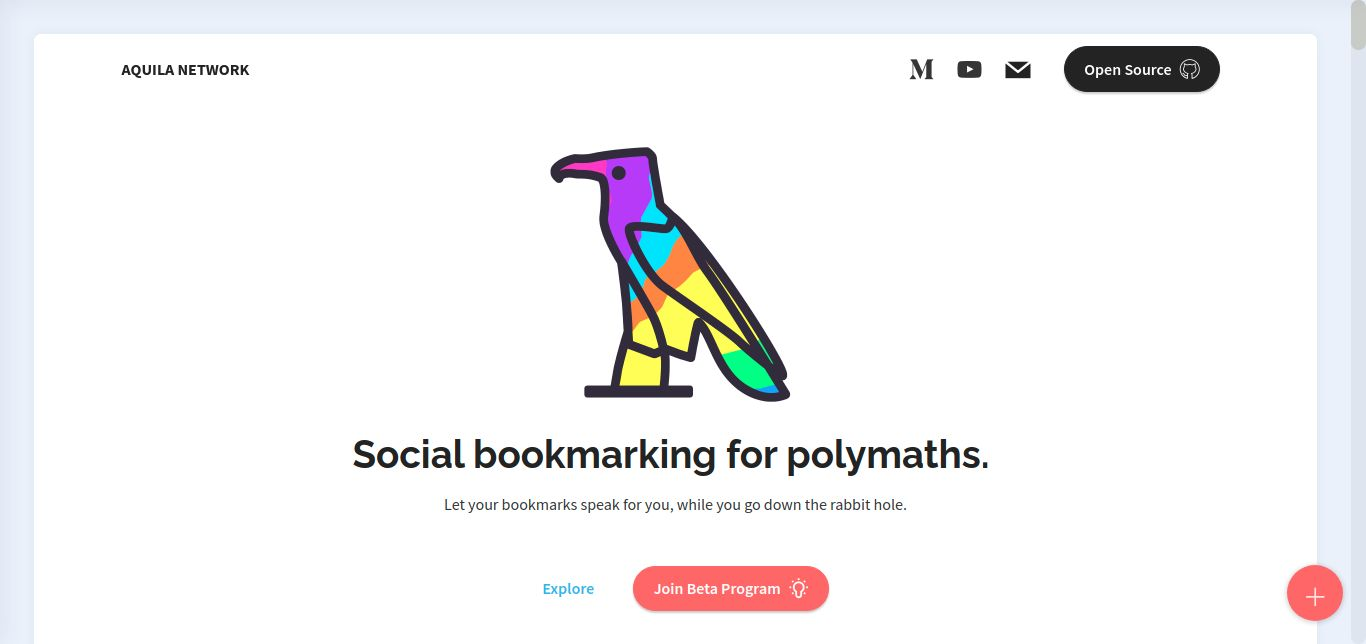
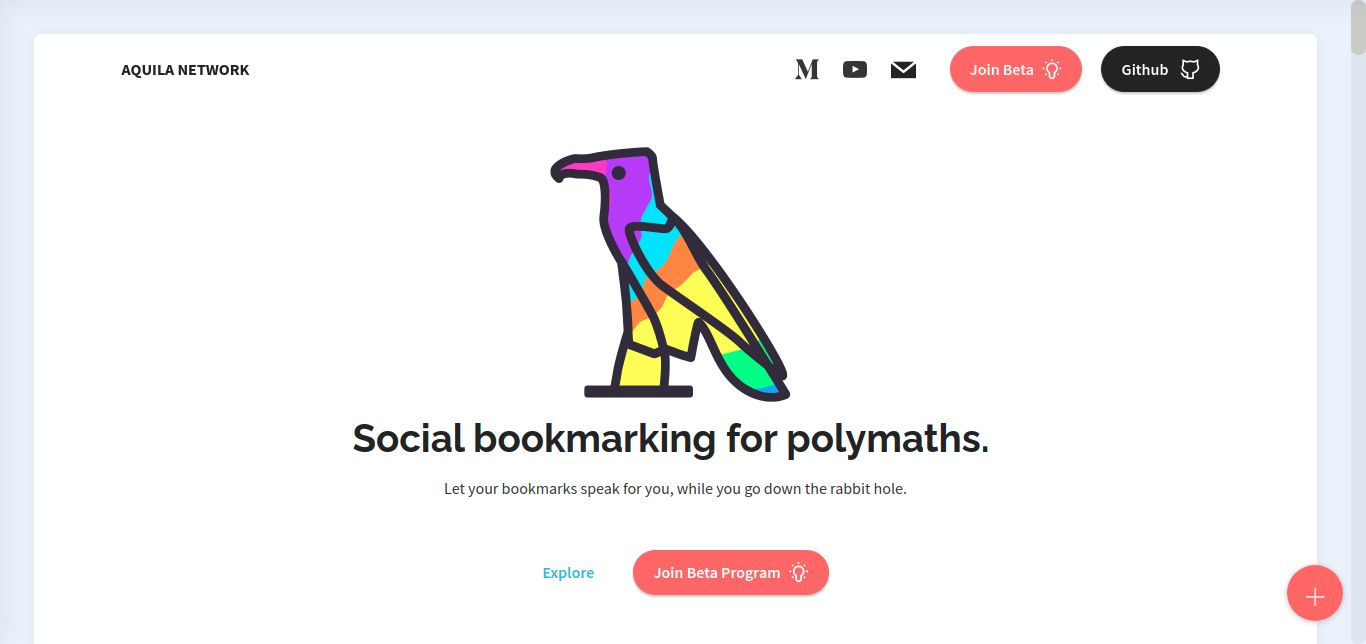
form changed to airtable

diff --git a/index.html b/index.html
@@ -88,7 +88,7 @@
                     
                     
                 </div>
-                <div class="navbar-buttons mbr-section-btn"><a class="btn btn-secondary display-4" href="#form9-3"><span class="mobi-mbri mobi-mbri-idea mbr-iconfont mbr-iconfont-btn"></span>Join Beta</a> <a class="btn btn-black display-4" href="https://github.com/Aquila-Network/awesome-aquila-network" target="_blank"><span class="mobi-mbri mobi-mbri-github mbr-iconfont mbr-iconfont-btn"></span>Github&nbsp;</a></div>
+                <div class="navbar-buttons mbr-section-btn"><a class="btn btn-secondary display-4" href="https://airtable.com/shrhvlKgL6otYCnlb"><span class="mobi-mbri mobi-mbri-idea mbr-iconfont mbr-iconfont-btn"></span>Join Beta</a> <a class="btn btn-black display-4" href="https://github.com/Aquila-Network/awesome-aquila-network" target="_blank"><span class="mobi-mbri mobi-mbri-github mbr-iconfont mbr-iconfont-btn"></span>Github&nbsp;</a></div>
             </div>
         </div>
     </nav>
@@ -124,7 +124,7 @@
                 
                 <p class="mbr-text mbr-fonts-style display-7">Let your bookmarks speak for you, while you go down the rabbit hole.<br><br>
                 </p>
-                <div class="mbr-section-btn mt-3"><a class="btn btn-info-outline display-4" href="https://x.aquila.network/explore.html" target="_blank">Explore</a> <a class="btn btn-secondary display-4" href="#form9-3"><span class="mobi-mbri mobi-mbri-idea mbr-iconfont mbr-iconfont-btn"></span>Join Beta Program</a></div>
+                <div class="mbr-section-btn mt-3"><a class="btn btn-info-outline display-4" href="https://x.aquila.network/explore.html" target="_blank">Explore</a> <a class="btn btn-secondary display-4" href="https://airtable.com/shrhvlKgL6otYCnlb"><span class="mobi-mbri mobi-mbri-idea mbr-iconfont mbr-iconfont-btn"></span>Join Beta Program</a></div>
             </div>
         </div>
     </div>
